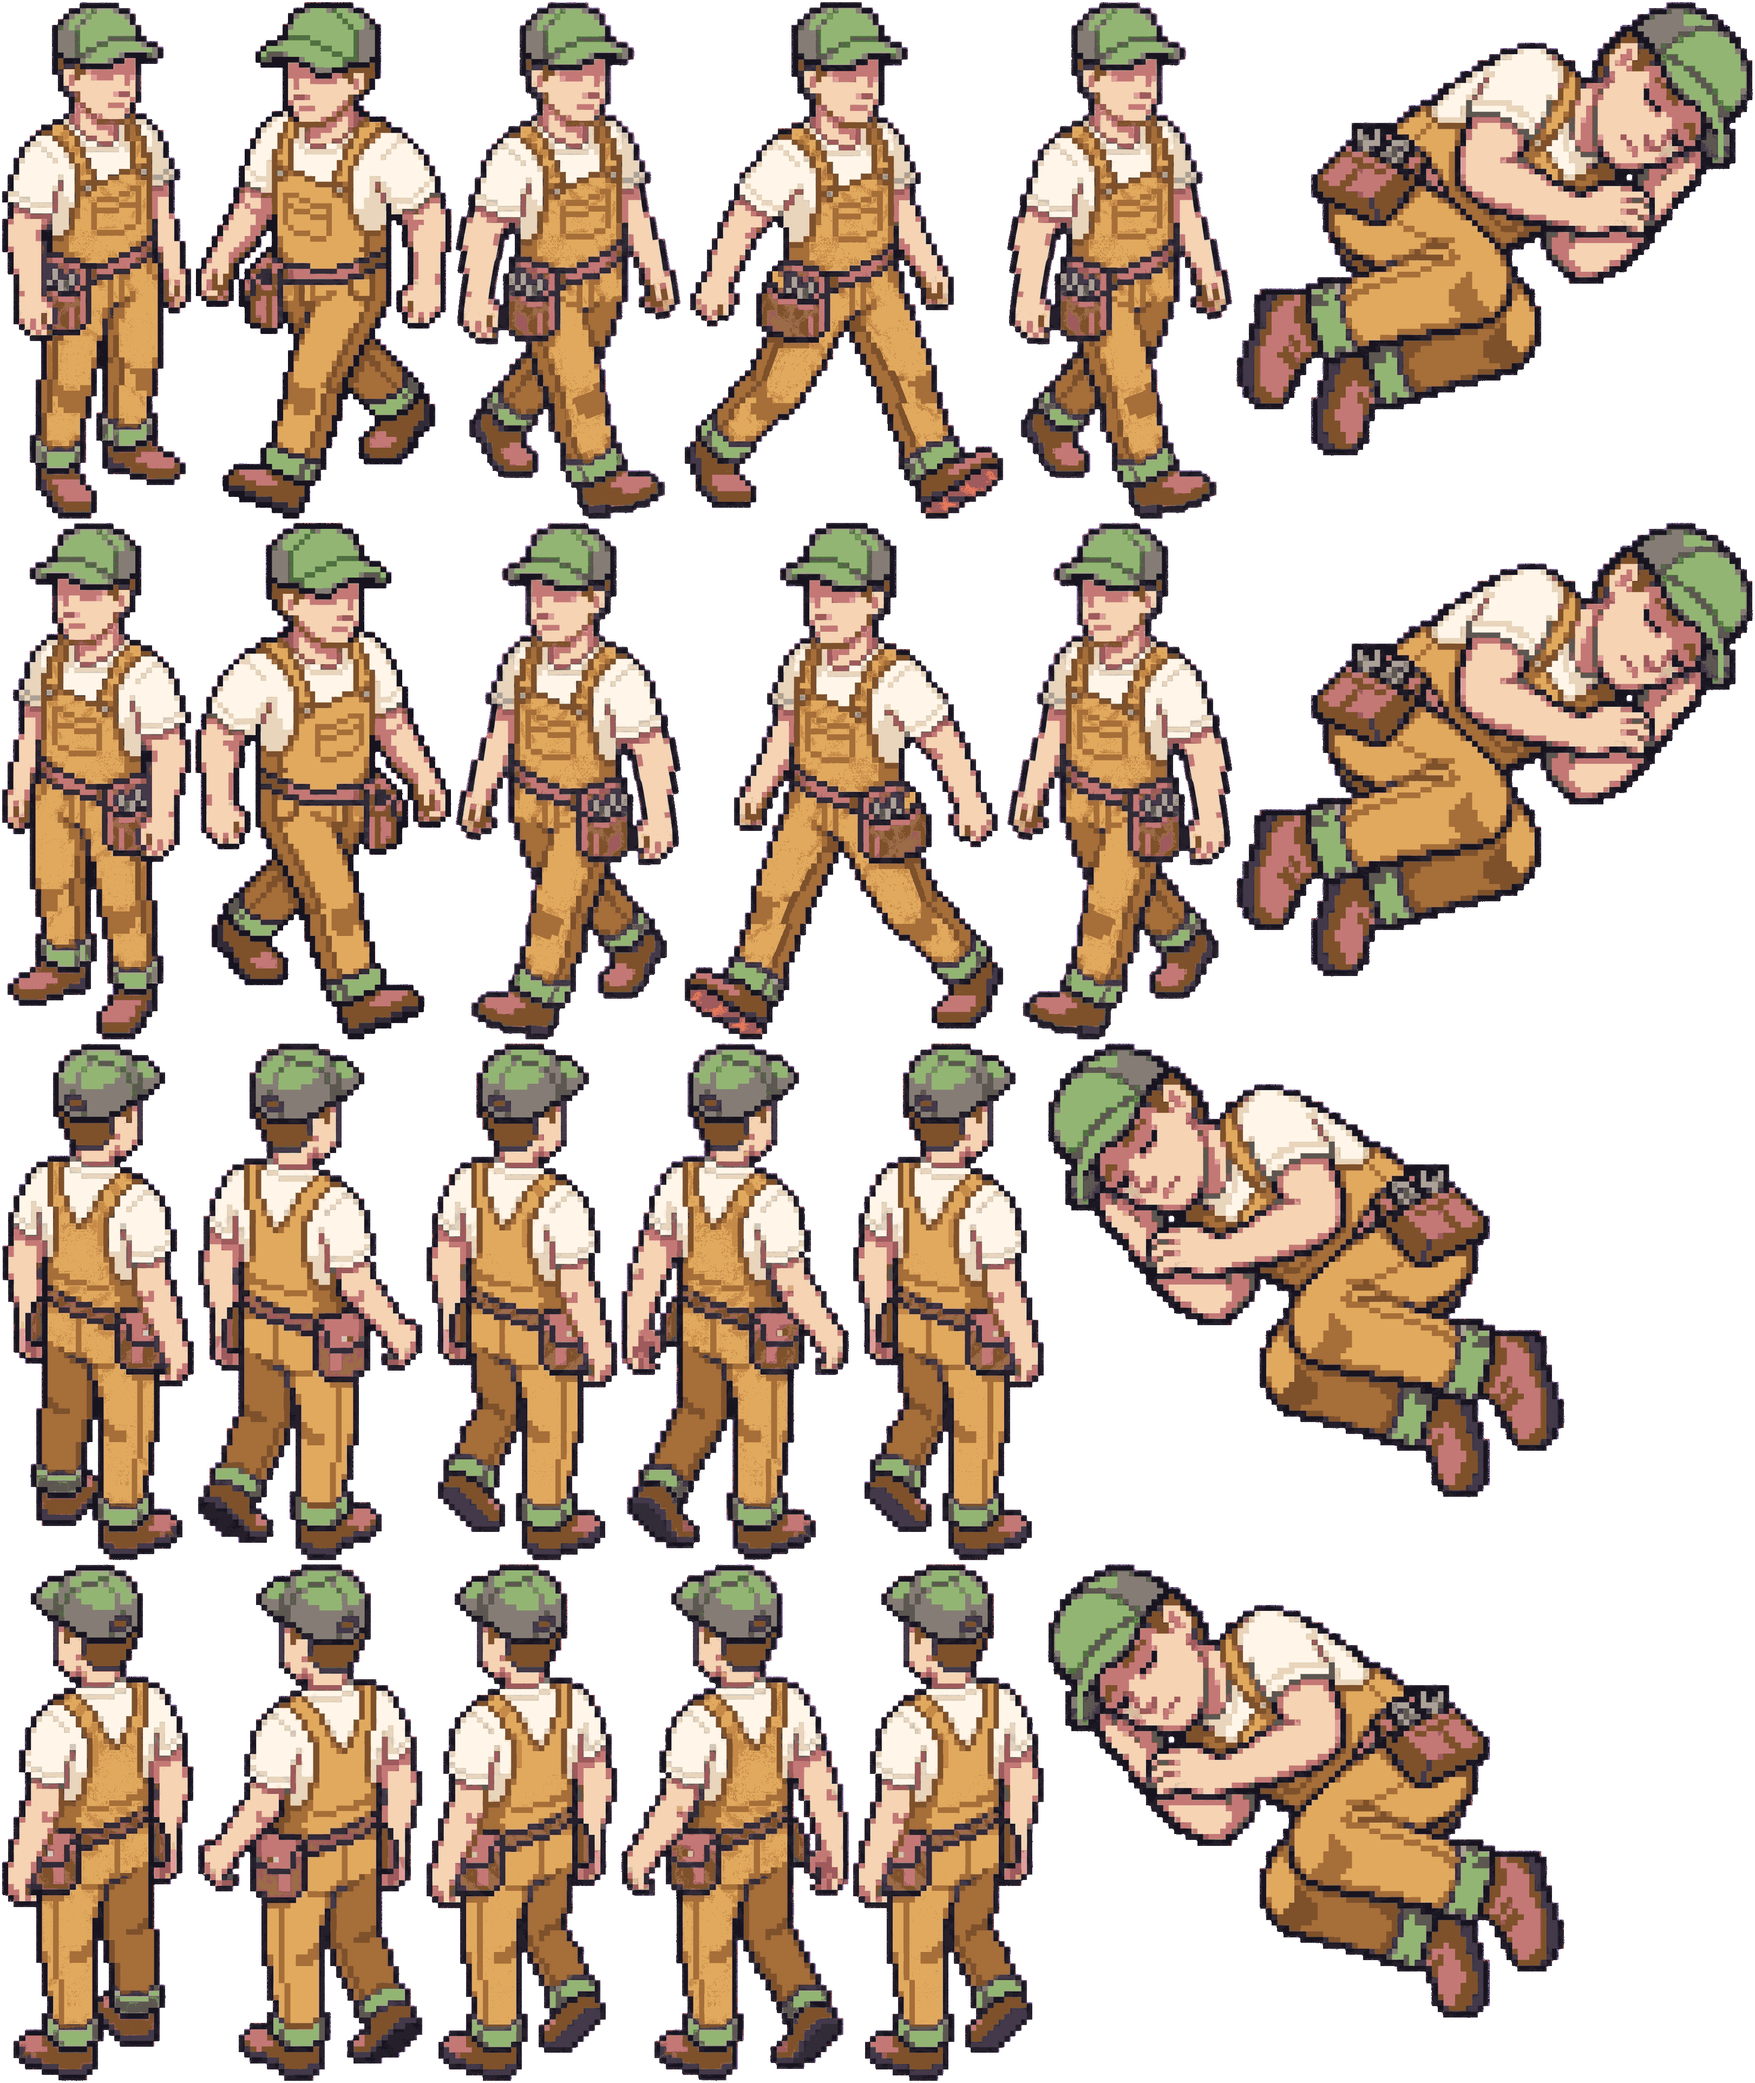
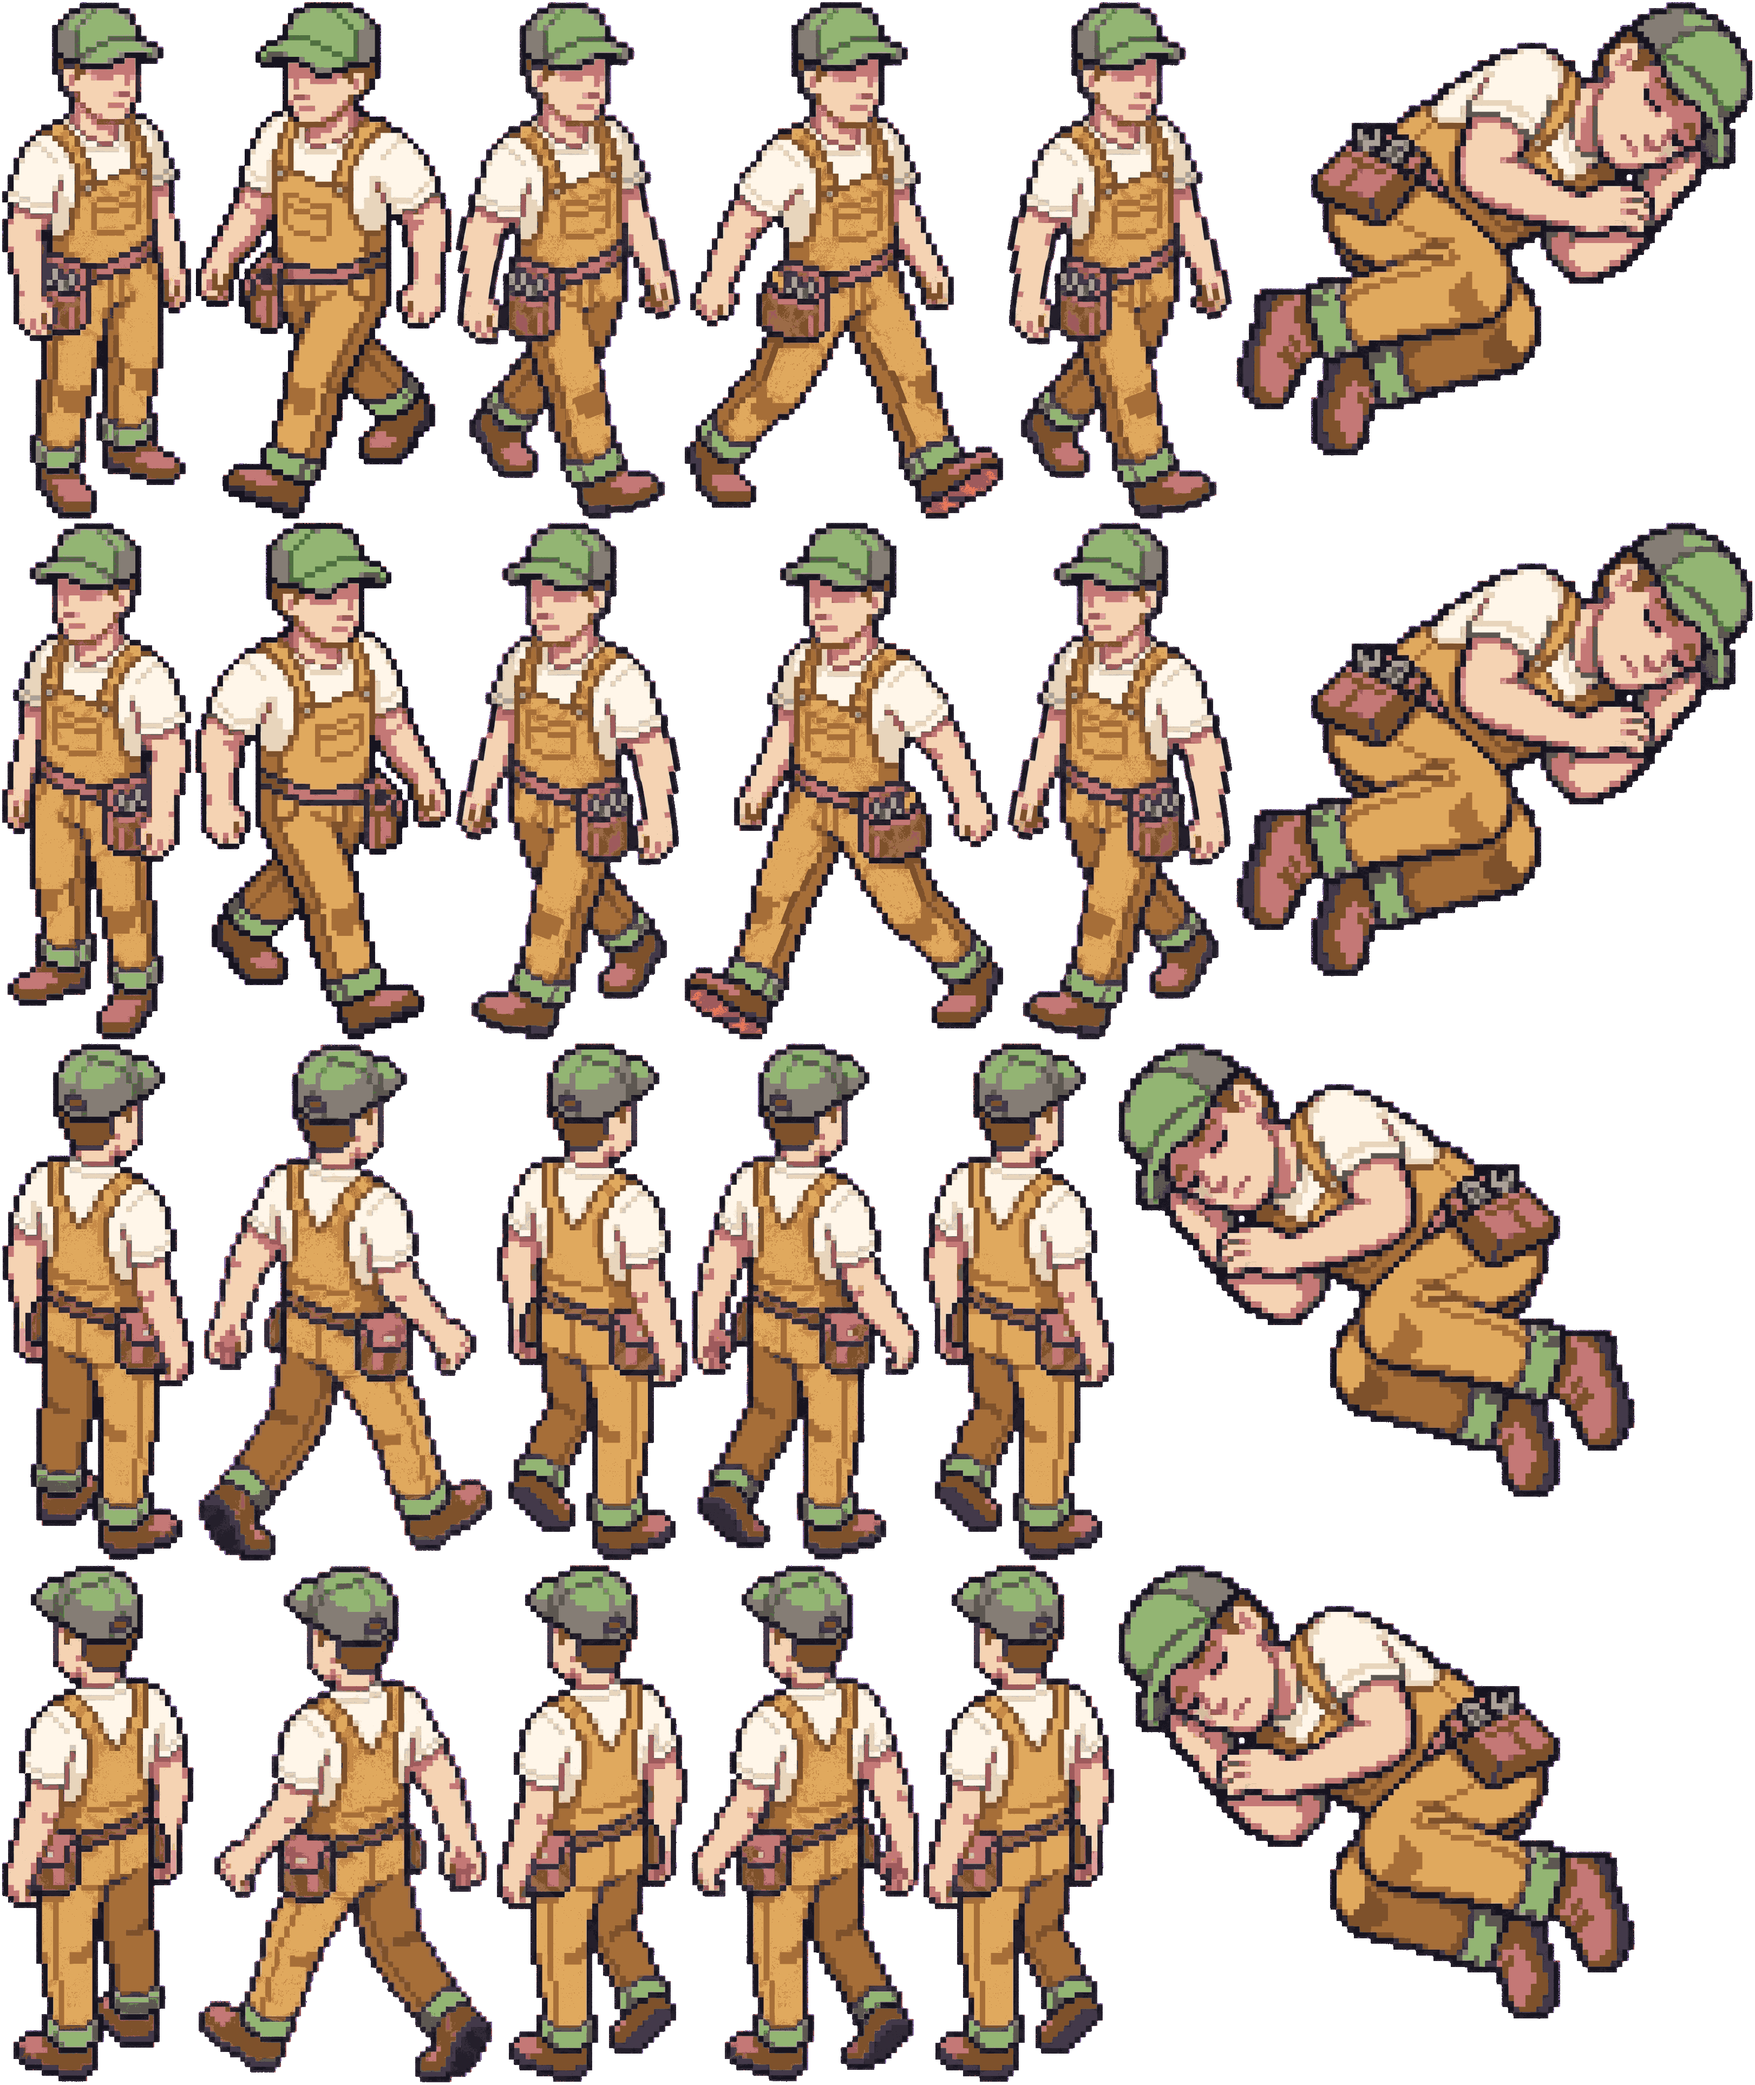
forge-gates T3b: omar's head drift is gone, and two things no gate measures
`omar ne/contact-a` — his face visible in a BACK view, head 0.2379 against 0.20
— is a clean cell for $0.2745. Two cells of twenty-four moved; his ne stride
trio still passes; the SE strip is byte-identical. Debt: 3 -> 2.

★ IT TOOK THREE CANDIDATES AND TWO REFUSALS BY EYE, AND THAT IS THE FINDING.

c3 cleared every gate in the package with a contact frame NO WIDER THAN THE
IDLE: foot span 1.00x, against 1.21x for the cell it would have replaced. A
walk frame with no walk in it. `strideGateV4` passed it because it measures
frame-to-frame PIXEL DISTANCE, not stance — a proxy, not the property. Swept
the whole cast: contact frames run 1.22x-2.04x, and the only two below 1.15x
are this candidate at 1.00 and `amara/se/contact-b` at 1.01, which is the
pinned TACTICAL GEAR repair. A gate is available with a 1.2x gap; I did not
land it, because it would red art the coordinator has not seen.

c4 cleared every gate with a BAKED GROUND SHADOW under the boots — Nadia's
defect, which this project has already proved no mechanical detector can rank
above clean art. Found by eye, as the previous lane said the next one would be.

c5 is clean on both at 1.93x foot span, correct costume, no shadow, no face.

CAST_REJECTED is the control that made this possible and it now has its first
real use: the eye is the gate the gates cannot be, and it took two turns of it.

Spend: salma $0.2750 + omar $0.2745 = $0.5495 across the lane.
[…]

diff --git a/packages/forge/src/castAudit.test.ts b/packages/forge/src/castAudit.test.ts
@@ -102,7 +102,7 @@ function failuresOf(c: CommittedCharacter, atlas: RawImage): string[] {
 }
 
 /**
- * ★ THE DEBT, AS OF THIS SWEEP. THREE cells, all of them in the cast.
+ * ★ THE DEBT, AS OF THIS SWEEP. TWO cells, both in the cast.
  *
  * It was four. `salma ne/contact-a` — the second TACTICAL GEAR, a large brown bundle in her
  * right hand in one frame of four, +24.3 % opaque area against a ±18 % tolerance and WORSE
@@ -110,6 +110,14 @@ function failuresOf(c: CommittedCharacter, atlas: RawImage): string[] {
  * The refusal the ruling installed is what made that happen: `gen-cast-v5` stopped on her
  * three cached candidates instead of shipping the least-bad, `CAST_ATTEMPTS=6` drew a fourth,
  * and the fourth passed. Two cells of twenty-four moved; her ne stride trio still passes.
+ *
+ * `omar ne/contact-a` went the same way, for $0.2745 and three refusals — two of them BY EYE,
+ * which is the control the eye is for. c3 cleared every gate with a contact frame no wider
+ * than the idle (foot span 1.00x, against 1.21x for the cell it would have replaced): a walk
+ * frame with no walk in it, and `strideGateV4` cannot see it because it measures frame-to-frame
+ * pixel distance, not stance. c4 cleared every gate with a BAKED GROUND SHADOW under the boots
+ * — Nadia's defect, the one this project has already proved no gate catches. c5 is clean on
+ * both counts at 1.93x. Neither of those two properties is gated; see the report.
  */
 export const KNOWN_GATE_DEBT: Record<string, string> = {
   // MINE, and named so it is not mistaken for the model's. The TACTICAL GEAR repair set
@@ -117,10 +125,6 @@ export const KNOWN_GATE_DEBT: Record<string, string> = {
   // back-facing walk cycles have no alternating stride. Clears when the strip is redrawn.
   'amara ne stride contact-a~contact-b':
     '0.0000 against 0.1085 — the TACTICAL GEAR repair, by construction',
-
-  // Omar's head moves 24 % between idle and contact-a in the back view. Legs move, heads do not.
-  'omar ne head contact-a':
-    '0.2379 against 0.2000 — head drift in the back-facing contact frame',
 
   // Yusuf's sleep cell shares 53 % of its palette with his idle against a floor of 80 %. A
   // lying body at gate-view scale is mostly face where a standing one is mostly jacket, so
@@ -147,8 +151,8 @@ describe('★ the committed cast against the gates as they now behave', () => {
       'this entry passes now — delete it from KNOWN_GATE_DEBT').toEqual([])
   })
 
-  it('★ and the debt is THREE cells, so a jump shows up in the diff', () => {
-    expect(Object.keys(KNOWN_GATE_DEBT)).toHaveLength(3)
+  it('★ and the debt is TWO cells, so a jump shows up in the diff', () => {
+    expect(Object.keys(KNOWN_GATE_DEBT)).toHaveLength(2)
   })
 })
 
